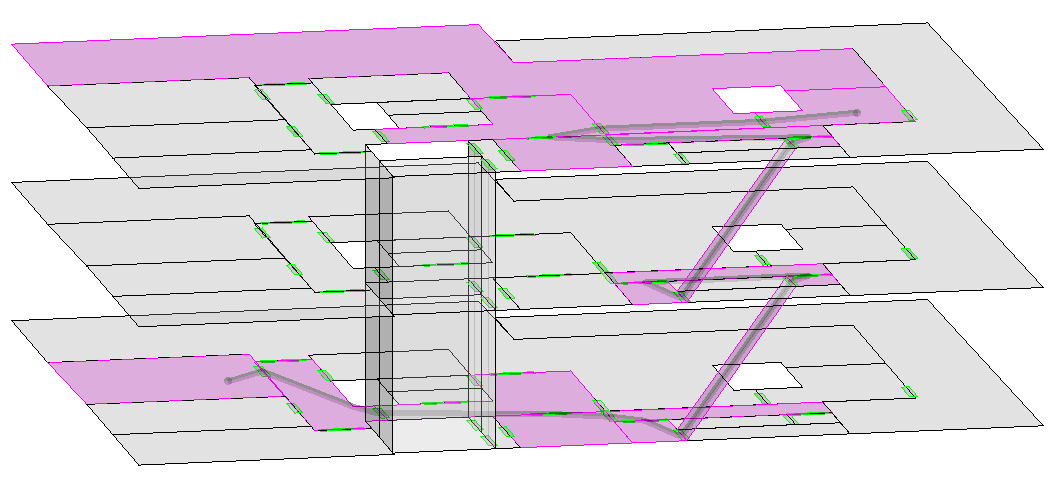
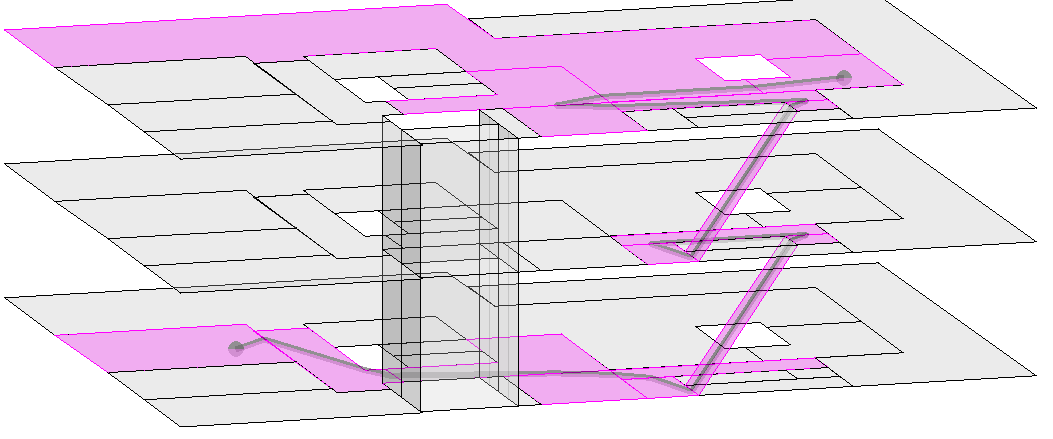
Remaining stuff for Liu

diff --git a/projects/indoor/index.md b/projects/indoor/index.md
@@ -7,6 +7,15 @@ permalink: /projects/indoor/
 ## Indoor navigation
 Navigation and location-based services is one of the fast developing applications in Geographic information System (GIS) field. Presently, a considerable attention has been paid to indoor navigation or seamless indoor-outdoor navigation. Because people spend most of their time indoors, which boosts the number of user-required services similar to outdoor navigator especially when they explore complex and large indoor environments.
 
+<div class="row">
+  <div class="col-sm-6 col-xs-6">
+    <img class="img-responsive" src="{{ "/projects/indoor/img/BK_City.jpg" | prepend: site.baseurl }}">
+  </div>
+  <div class="col-sm-6 col-xs-6">
+    <img class="img-responsive" src="{{ "/projects/indoor/img/indoor2.jpg" | prepend: site.baseurl }}">
+  </div>
+</div>
+
 ## Problems
 Difficulties commonly exist in indoor data acquisition, indoor modelling and user-dependent path planning. There are diverse 3D geometric building models and semantics designed for different purposes (e.g. CityGML, BIM) but they fail short of sufficient information for indoor navigation to the large diversity of potential users. Moreover, sometimes outdoor path planning may not completely apply to the indoor environments due to their different navigation networks and various navigation semantics architecture.  
 
@@ -55,7 +64,14 @@ Based on *INSM* a two-level indoor routing strategy has been developed for indoo
 
 Path on the coarse level:
 
-
+<div class="row">
+  <div class="col-sm-6 col-xs-12">
+    <img class="img-responsive" alt="Coarse Level" src="{{ "/projects/indoor/img/1stLevel.png" | prepend: site.baseurl }}">
+  </div>
+  <div class="col-sm-6 col-xs-12">
+    <img class="img-responsive" alt="Coarse Level Path" src="{{ "/projects/indoor/img/1stlevelPath.png" | prepend: site.baseurl }}">
+  </div>
+</div>
 
 Path on the detailed level:
 
